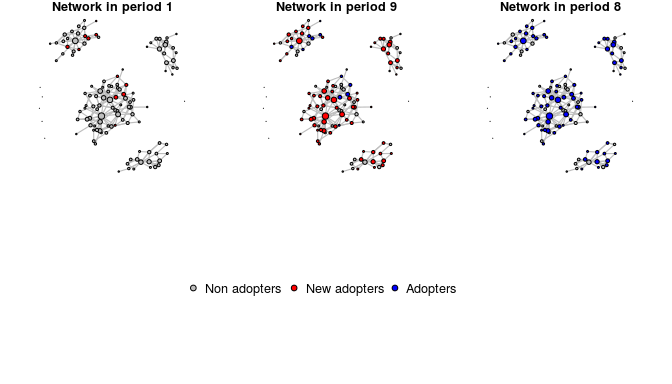
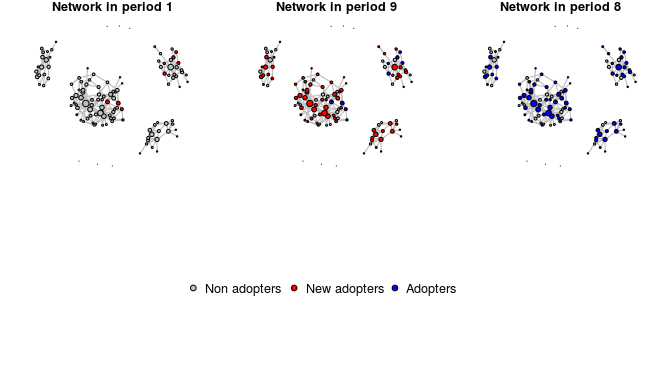
Adding figures

diff --git a/README.md b/README.md
@@ -163,13 +163,32 @@ diffnet
 plot_threshold(diffnet, vertex.cex = .25)
 ```
 
-![](README_files/figure-markdown_github/plot_threshold-1.png)<!-- -->
+![](README_files/figure-markdown_github/BoringThreshold,%20plot_threshold-1.png)<!-- -->
 
 ``` r
 plot_threshold(diffnet, vertex.cex = "degree")
 ```
 
-![](README_files/figure-markdown_github/plot_threshold-2.png)<!-- -->
+![](README_files/figure-markdown_github/BoringThreshold,%20plot_threshold-2.png)<!-- -->
+
+Using more features
+
+``` r
+data("medInnovationsDiffNet")
+size <- sqrt(1 + dgr(medInnovationsDiffNet)[,1])
+set.seed(131)
+plot_threshold(
+  medInnovationsDiffNet,
+  vertex.label = nodes(medInnovationsDiffNet),
+  vertex.cex = size/10, vertex.lab.pos = NULL,
+  vertex.lab.cex = size/4,
+  vertex.sides = medInnovationsDiffNet[["city"]] + 2,
+  sub = "Note: Vertices' sizes and shapes given by degree and city respectively",
+  jitter.factor = c(1,1), jitter.amount = c(.25,.025)
+)
+```
+
+![](README_files/figure-markdown_github/NiceThreshold-1.png)<!-- -->
 
 ### Adoption rate
 
@@ -177,7 +196,7 @@ plot_threshold(diffnet, vertex.cex = "degree")
 plot_adopters(diffnet)
 ```
 
-![](README_files/figure-markdown_github/unnamed-chunk-2-1.png)<!-- -->
+![](README_files/figure-markdown_github/Adopters-1.png)<!-- -->
 
 ### Hazard rate
 
@@ -185,7 +204,7 @@ plot_adopters(diffnet)
 hazard_rate(diffnet)
 ```
 
-![](README_files/figure-markdown_github/unnamed-chunk-3-1.png)<!-- -->
+![](README_files/figure-markdown_github/Hazard-1.png)<!-- -->
 
 ### Diffusion process
 
